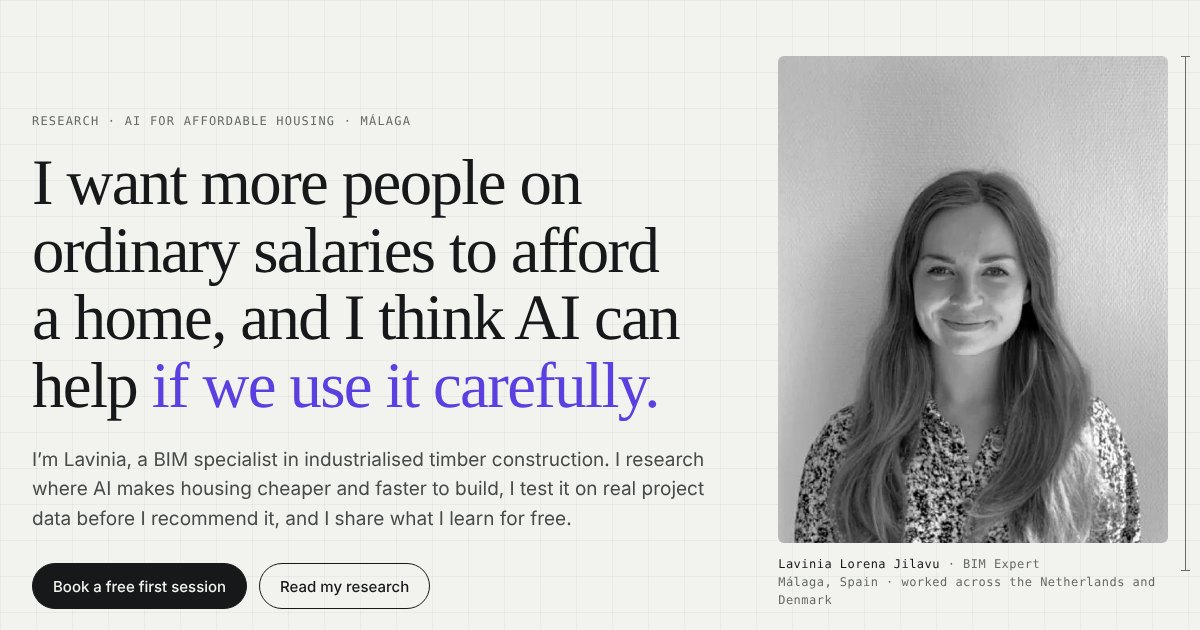
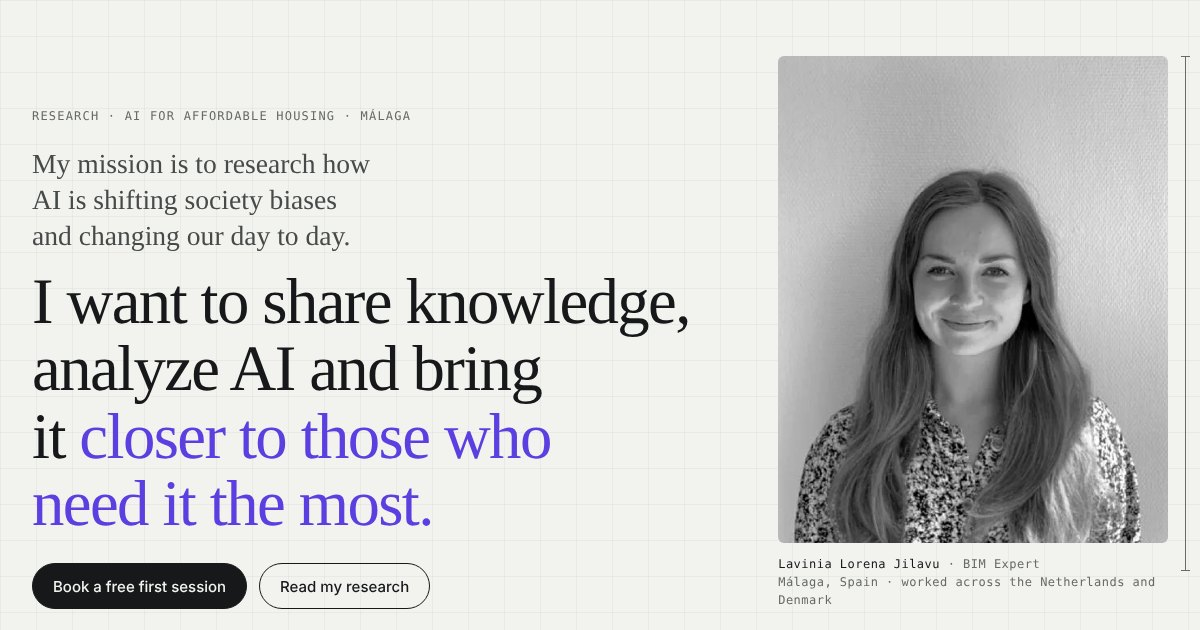
Change the hero heading
"I want to share knowledge, analyze AI and bring it closer to those
who need it the most." Updates the homepage preview title and image too.

Claude-Session: https://claude.ai/code/session_013tenhEDKmaFaEqJ2x1CGPi

Changed region(s): [[0.0308, 0.2413, 0.5858, 0.8444], [0.0308, 0.181, 0.2775, 0.2111], [0.3083, 0.181, 0.3392, 0.2111]]

diff --git a/index.html b/index.html
@@ -381,7 +381,7 @@ sup.fn a { text-decoration: none; }
 <meta name="theme-color" content="#111312" media="(prefers-color-scheme: dark)">
 <meta property="og:type" content="website">
 <meta property="og:site_name" content="LAAI – AI for construction">
-<meta property="og:title" content="I want more people on ordinary salaries to afford a home">
+<meta property="og:title" content="I want to share knowledge, analyze AI and bring it closer to those who need it the most">
 <meta property="og:description" content="Lavinia Lorena Jilavu researches how AI can make housing cheaper and faster to build, tests it on real project data, and shares what she learns for free.">
 <meta name="twitter:card" content="summary_large_image">
 <link rel="icon" href="favicon.svg" type="image/svg+xml">
@@ -390,7 +390,7 @@ sup.fn a { text-decoration: none; }
 <meta property="og:image" content="https://laai4aec.netlify.app/assets/og-image.jpg">
 <meta property="og:image:width" content="1200">
 <meta property="og:image:height" content="630">
-<meta property="og:image:alt" content="I want more people on ordinary salaries to afford a home">
+<meta property="og:image:alt" content="I want to share knowledge, analyze AI and bring it closer to those who need it the most">
 <meta name="twitter:image" content="https://laai4aec.netlify.app/assets/og-image.jpg">
 <!-- Hidden from search engines for now: remove this line (and the X-Robots-Tag header in netlify.toml) to go public -->
 <meta name="robots" content="noindex, nofollow">
@@ -421,7 +421,7 @@ sup.fn a { text-decoration: none; }
       <div>
         <p class="label">Research · AI for affordable housing · Málaga</p>
         <p class="mission-line">My mission is to research how AI is shifting society biases and changing our day to day.</p>
-        <h1 id="h-hero">I want more people on ordinary salaries to afford a home, and I think AI can help <em>if we use it carefully.</em></h1>
+        <h1 id="h-hero">I want to share knowledge, analyze AI and bring it <em>closer to those who need it the most.</em></h1>
         <div class="cta">
           <a class="btn btn-primary" href="#contact">Book a free first session</a>
           <a class="btn btn-ghost" href="#research">Read my research</a>
